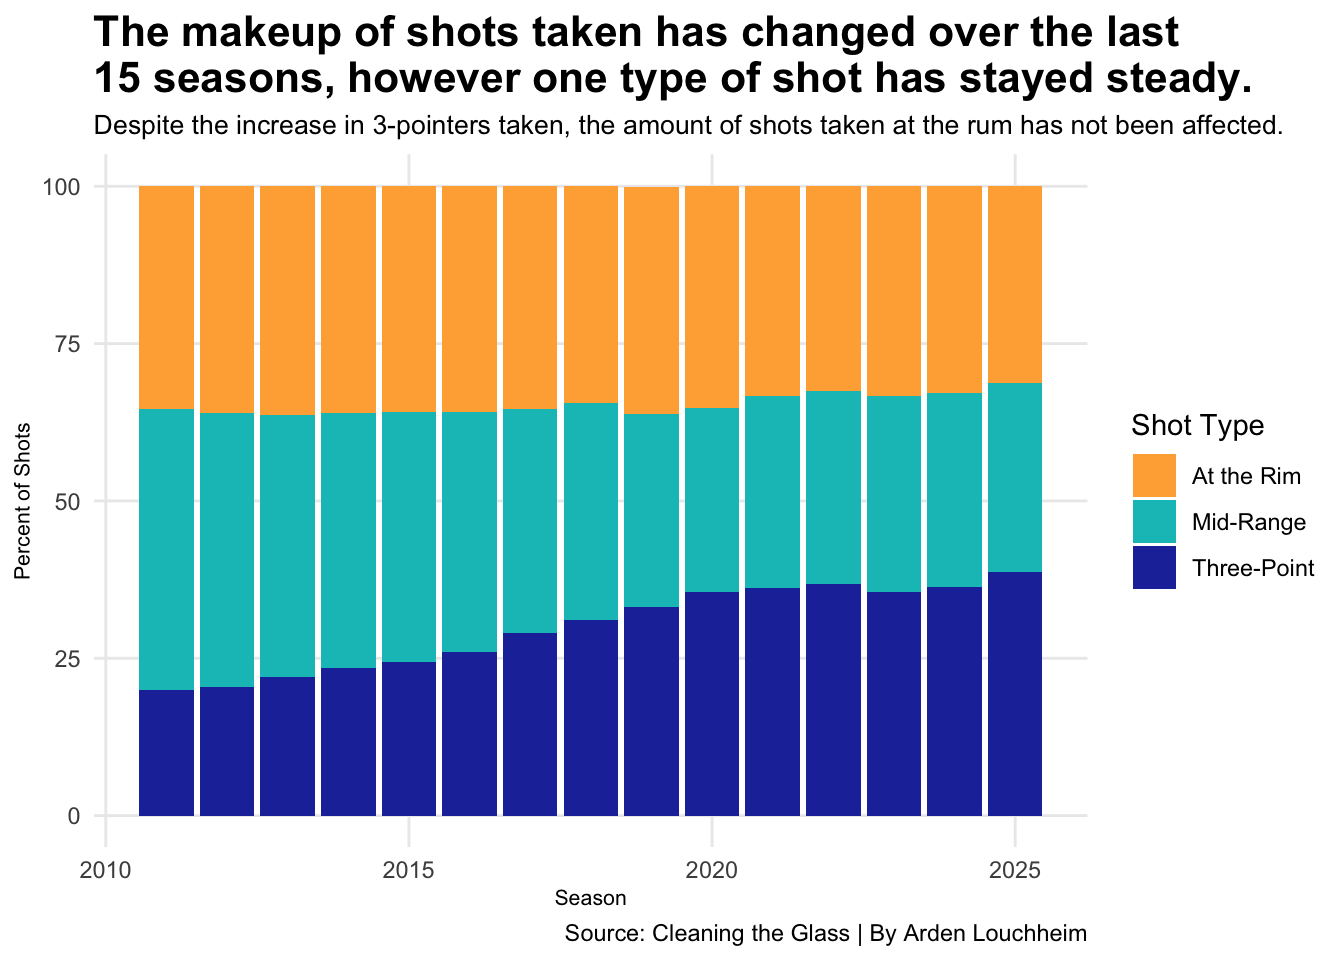
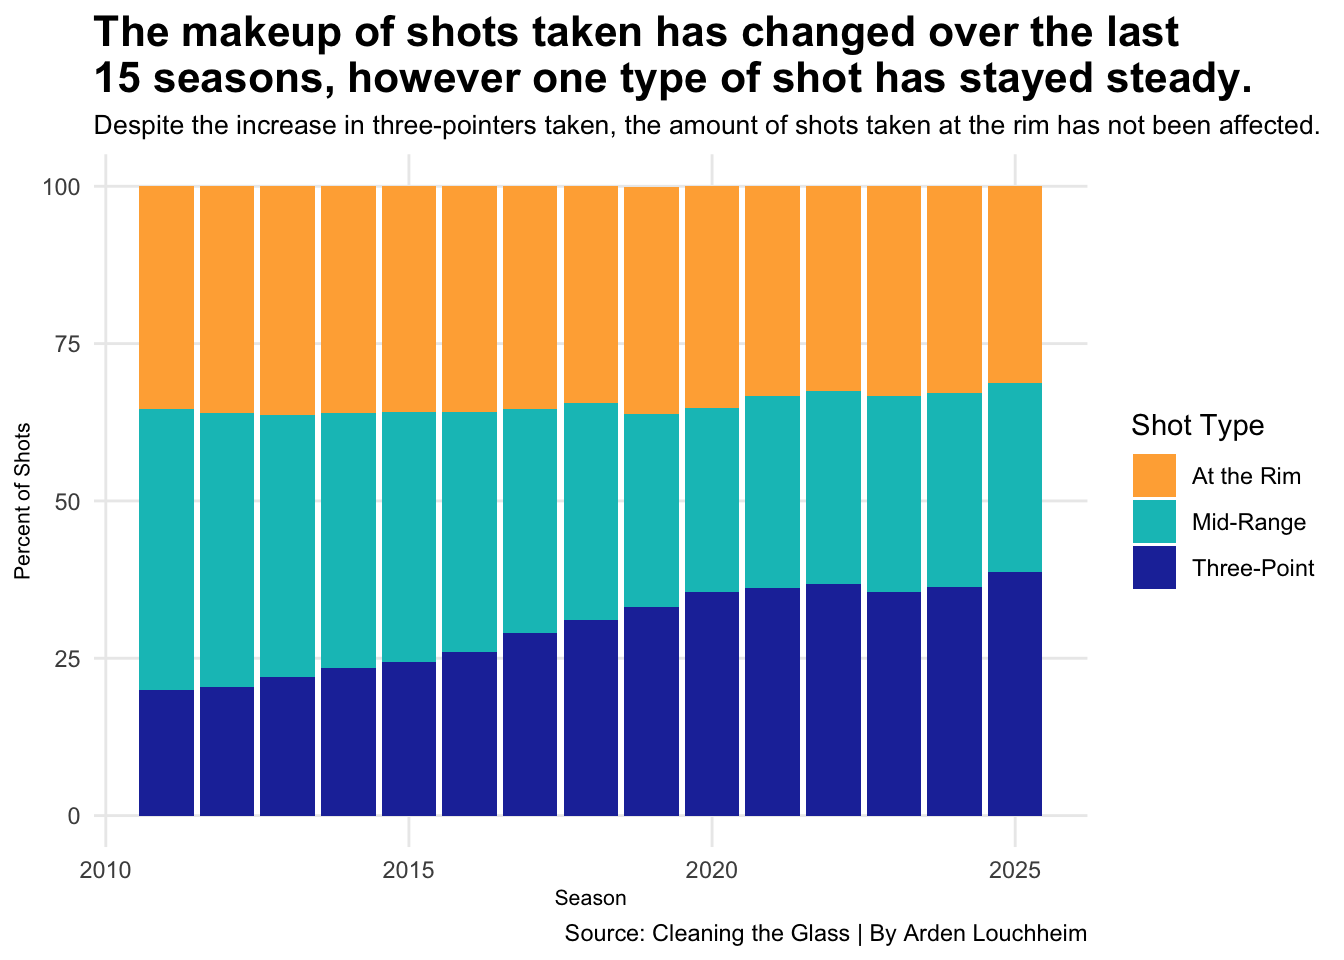
updated

Changed region(s): [[0.2812, 0.125, 0.9688, 0.1562]]

diff --git a/posts/2025-05-02-the-increase-in-three-pointers/index.html b/posts/2025-05-02-the-increase-in-three-pointers/index.html
@@ -192,7 +192,7 @@ pre > code.sourceCode > span > a:first-child::before { text-decoration: underlin
 
 
 
-<p>Sports are ever-changing entities and basketball is no different. Whether it is baseball players changing their swings to favor a higher launch angle that produces more home runs, more pass heavy offenses in football, or golfers using power to hit balls farther than ever before, every sport has seen its fair share of changes. However, one of the most drastic of these revolutions has been the way that the three-ball has taken over the NBA. Over the last 15 seasons and even before that, players have been letting it fly beyond the arc more and more often. However, the overall amount of shots taken per game hasn’t changed drastically. So which shot is decreasing in order to make room for the three-point revolution? Using data from the 15 seasons in the NBA this blog will answer that question.</p>
+<p>Sports are ever-changing entities and basketball is no different. Whether it is baseball players changing their swings to favor a higher launch angle that produces more home runs, more pass heavy offenses in football, or golfers using power to hit balls farther than ever before, every sport has seen its fair share of changes. However, one of the most drastic of these revolutions has been the way that the three-ball has taken over the NBA. Over the last 15 seasons and even before that, players have been letting it fly beyond the arc more and more often. However, the overall amount of shots taken per game hasn’t changed drastically. Which shot is decreasing in order to make room for the three-point revolution? Using data from the 15 seasons in the NBA, this blog will answer that question.</p>
 <p>First let’s simply look at the increase of three-pointers over the last 15 seasons.</p>
 <div class="cell">
 <details class="code-fold">
@@ -687,7 +687,7 @@ pre > code.sourceCode > span > a:first-child::before { text-decoration: underlin
 <span id="cb3-12"><a href="#cb3-12" aria-hidden="true" tabindex="-1"></a>  <span class="fu">labs</span>(</span>
 <span id="cb3-13"><a href="#cb3-13" aria-hidden="true" tabindex="-1"></a>    <span class="at">x =</span> <span class="st">"Percent of All Shots That Were Threes"</span>,</span>
 <span id="cb3-14"><a href="#cb3-14" aria-hidden="true" tabindex="-1"></a>    <span class="at">y =</span> <span class="st">"Percent of All Shots That Were Midrange"</span>,</span>
-<span id="cb3-15"><a href="#cb3-15" aria-hidden="true" tabindex="-1"></a>    <span class="at">title =</span> <span class="st">"For every team over the last 15 seasons, as the amount </span><span class="sc">\n</span><span class="st">of threes taken increases, the amount of midrange shots </span><span class="sc">\n</span><span class="st">taken decreases."</span>,</span>
+<span id="cb3-15"><a href="#cb3-15" aria-hidden="true" tabindex="-1"></a>    <span class="at">title =</span> <span class="st">"For every team over the last 15 seasons, as the amount </span><span class="sc">\n</span><span class="st">of threes taken increases, the amount of mid-range shots </span><span class="sc">\n</span><span class="st">taken decreases."</span>,</span>
 <span id="cb3-16"><a href="#cb3-16" aria-hidden="true" tabindex="-1"></a>    <span class="at">subtitle =</span> <span class="st">"The &lt;span style = 'color:red;'&gt;red&lt;/span&gt; points are the NBA Champion from each season. The 2024 champion Boston Celtics shot the most threes of any NBA Champion in the last 15 seasons."</span>,</span>
 <span id="cb3-17"><a href="#cb3-17" aria-hidden="true" tabindex="-1"></a>    <span class="at">caption =</span> <span class="st">"Source: Cleaning the Glass | By Arden Louchheim"</span></span>
 <span id="cb3-18"><a href="#cb3-18" aria-hidden="true" tabindex="-1"></a>  ) <span class="sc">+</span></span>
@@ -750,7 +750,7 @@ pre > code.sourceCode > span > a:first-child::before { text-decoration: underlin
 <span id="cb5-31"><a href="#cb5-31" aria-hidden="true" tabindex="-1"></a>    <span class="at">x =</span> <span class="st">"Season"</span>,</span>
 <span id="cb5-32"><a href="#cb5-32" aria-hidden="true" tabindex="-1"></a>    <span class="at">y =</span> <span class="st">"Percent of Shots"</span>,</span>
 <span id="cb5-33"><a href="#cb5-33" aria-hidden="true" tabindex="-1"></a>    <span class="at">title =</span> <span class="st">"The makeup of shots taken has changed over the last </span><span class="sc">\n</span><span class="st">15 seasons, however one type of shot has stayed steady."</span>,</span>
-<span id="cb5-34"><a href="#cb5-34" aria-hidden="true" tabindex="-1"></a>    <span class="at">subtitle =</span> <span class="st">"Despite the increase in 3-pointers taken, the amount of shots taken at the rum has not been affected."</span>,</span>
+<span id="cb5-34"><a href="#cb5-34" aria-hidden="true" tabindex="-1"></a>    <span class="at">subtitle =</span> <span class="st">"Despite the increase in three-pointers taken, the amount of shots taken at the rim has not been affected."</span>,</span>
 <span id="cb5-35"><a href="#cb5-35" aria-hidden="true" tabindex="-1"></a>    <span class="at">caption =</span> <span class="st">"Source: Cleaning the Glass | By Arden Louchheim"</span>,</span>
 <span id="cb5-36"><a href="#cb5-36" aria-hidden="true" tabindex="-1"></a>    <span class="at">fill =</span> <span class="st">"Shot Type"</span></span>
 <span id="cb5-37"><a href="#cb5-37" aria-hidden="true" tabindex="-1"></a>  ) <span class="sc">+</span></span>

diff --git a/index.html b/index.html
@@ -208,7 +208,7 @@ window.Quarto = {
 
 <div class="quarto-listing quarto-listing-container-default" id="listing-listing">
 <div class="list quarto-listing-default">
-<div class="quarto-post image-right" data-index="0" data-categories="QmFza2V0YmFsbCUyQ05CQSUyQ1RocmVlUG9pbnRlcnM=" data-listing-date-sort="1746162000000" data-listing-file-modified-sort="1746418163969" data-listing-date-modified-sort="NaN" data-listing-reading-time-sort="19" data-listing-word-count-sort="3756">
+<div class="quarto-post image-right" data-index="0" data-categories="QmFza2V0YmFsbCUyQ05CQSUyQ1RocmVlUG9pbnRlcnM=" data-listing-date-sort="1746162000000" data-listing-file-modified-sort="1746421000018" data-listing-date-modified-sort="NaN" data-listing-reading-time-sort="19" data-listing-word-count-sort="3755">
 <div class="thumbnail">
 <p><a href="./posts/2025-05-02-the-increase-in-three-pointers/index.html" class="no-external"></a></p><a href="./posts/2025-05-02-the-increase-in-three-pointers/index.html" class="no-external">
 <p><img loading="lazy" src="./posts/2025-05-02-the-increase-in-three-pointers/image.png" class="thumbnail-image"></p>
